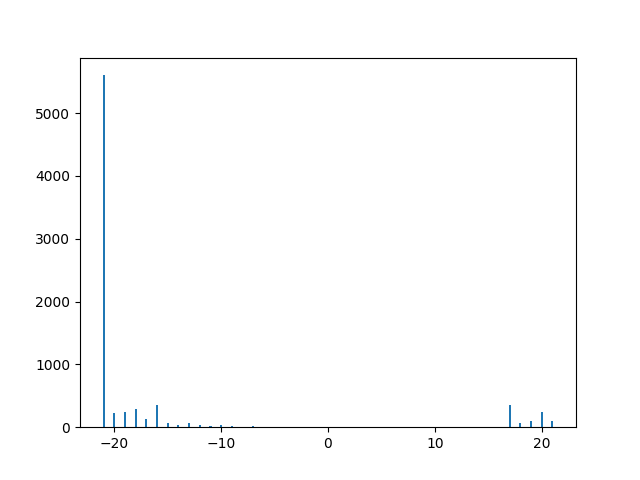
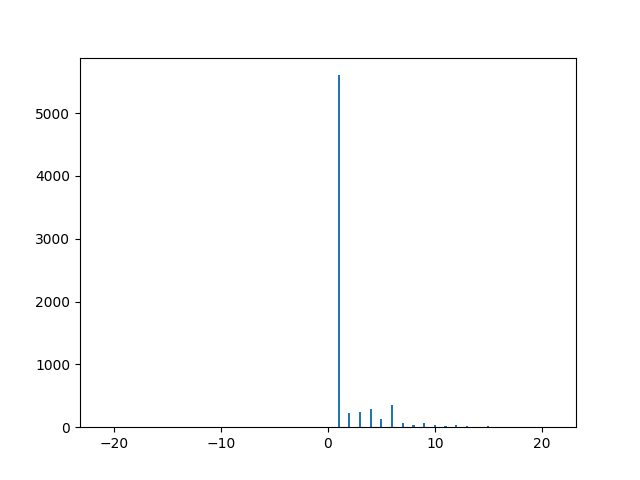
asdf

Changed region(s): [[0.1562, 0.8438, 0.25, 0.875], [0.5938, 0.8438, 0.625, 0.875]]

diff --git a/car-recognition-aws/predict.py b/car-recognition-aws/predict.py
@@ -98,10 +98,11 @@ def main(args):
     countsDict = {0: 5605, 1: 228, 2: 237, 3: 294, 4: 138, 5: 352, 6: 66, 7: 38, 8: 62, 9: 40, 10: 21, 11: 30, 12: 15, 13: 8, 14: 14, 15: 5, -14: 3, -11: 1, -1: 104, -9: 1, -8: 3, -7: 1, -6: 7, -5: 355, -4: 74, -3: 100, -2: 239} 
     heightsArr = np.zeros(43)
     for i in range(-21, 22):
-        if i in countsDict:
+        if (i+21) in countsDict:
             #heightsArr[i + 21] = countsDict[i]
-            heightsArr[i] = countsDict[i]
+            heightsArr[i] = countsDict[i+21]
     print(heightsArr)
+    print(potentialYearsOff)
     #heightsArr[0] = 5
     #heightsArr[1] = 5
     plt.bar(potentialYearsOff, heightsArr, width=0.2)
